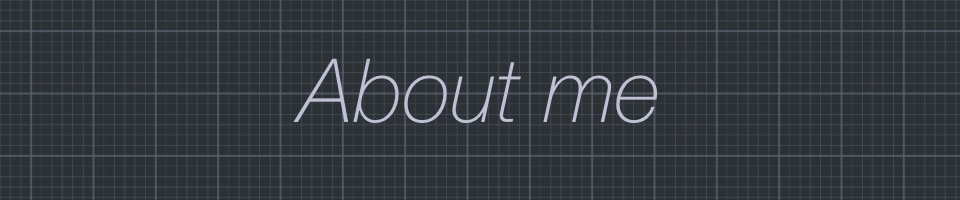
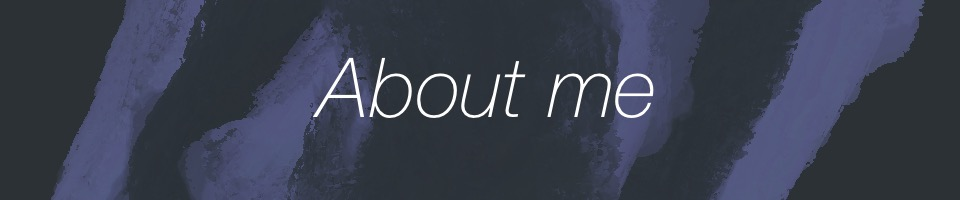
Added new portfolio files and images; renamed welcome image for consistency

diff --git a/Portfolio/index.html b/Portfolio/index.html
@@ -10,7 +10,7 @@
 
 <body>
     <header>
-        <img src="welcome.png" alt="Banner">
+        <img src="welcometomyportfolio.png" alt="Banner">
         <nav class="navHorizontal">
             <ul>
                 <li><a href="index.html">Home</a></li>
